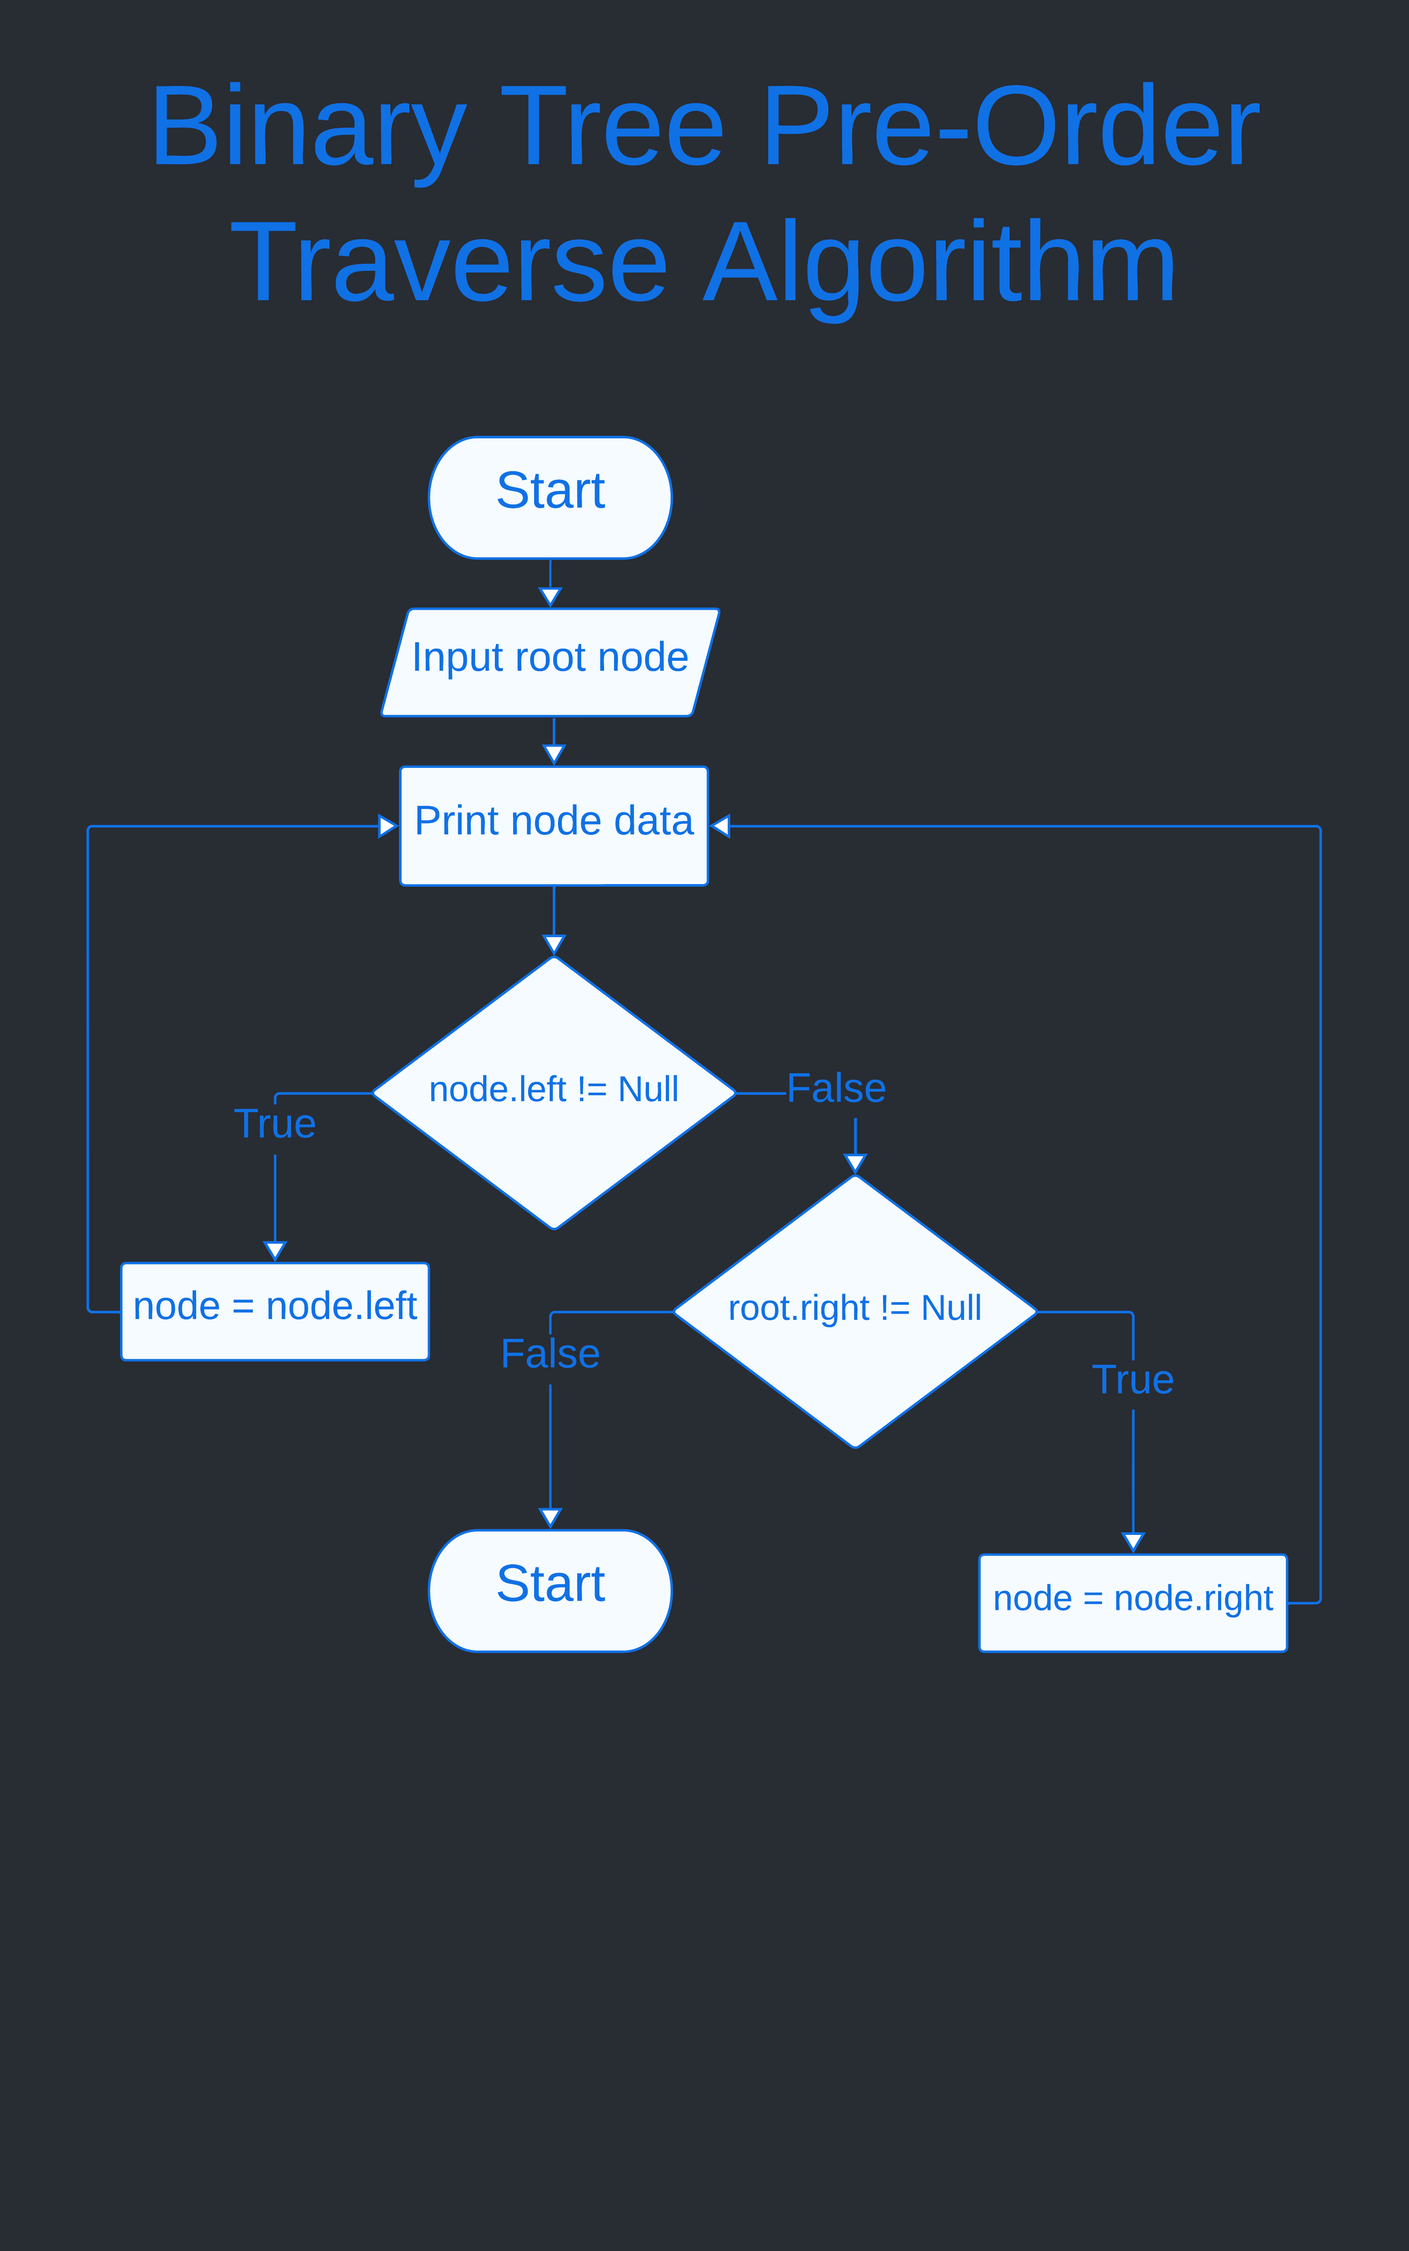
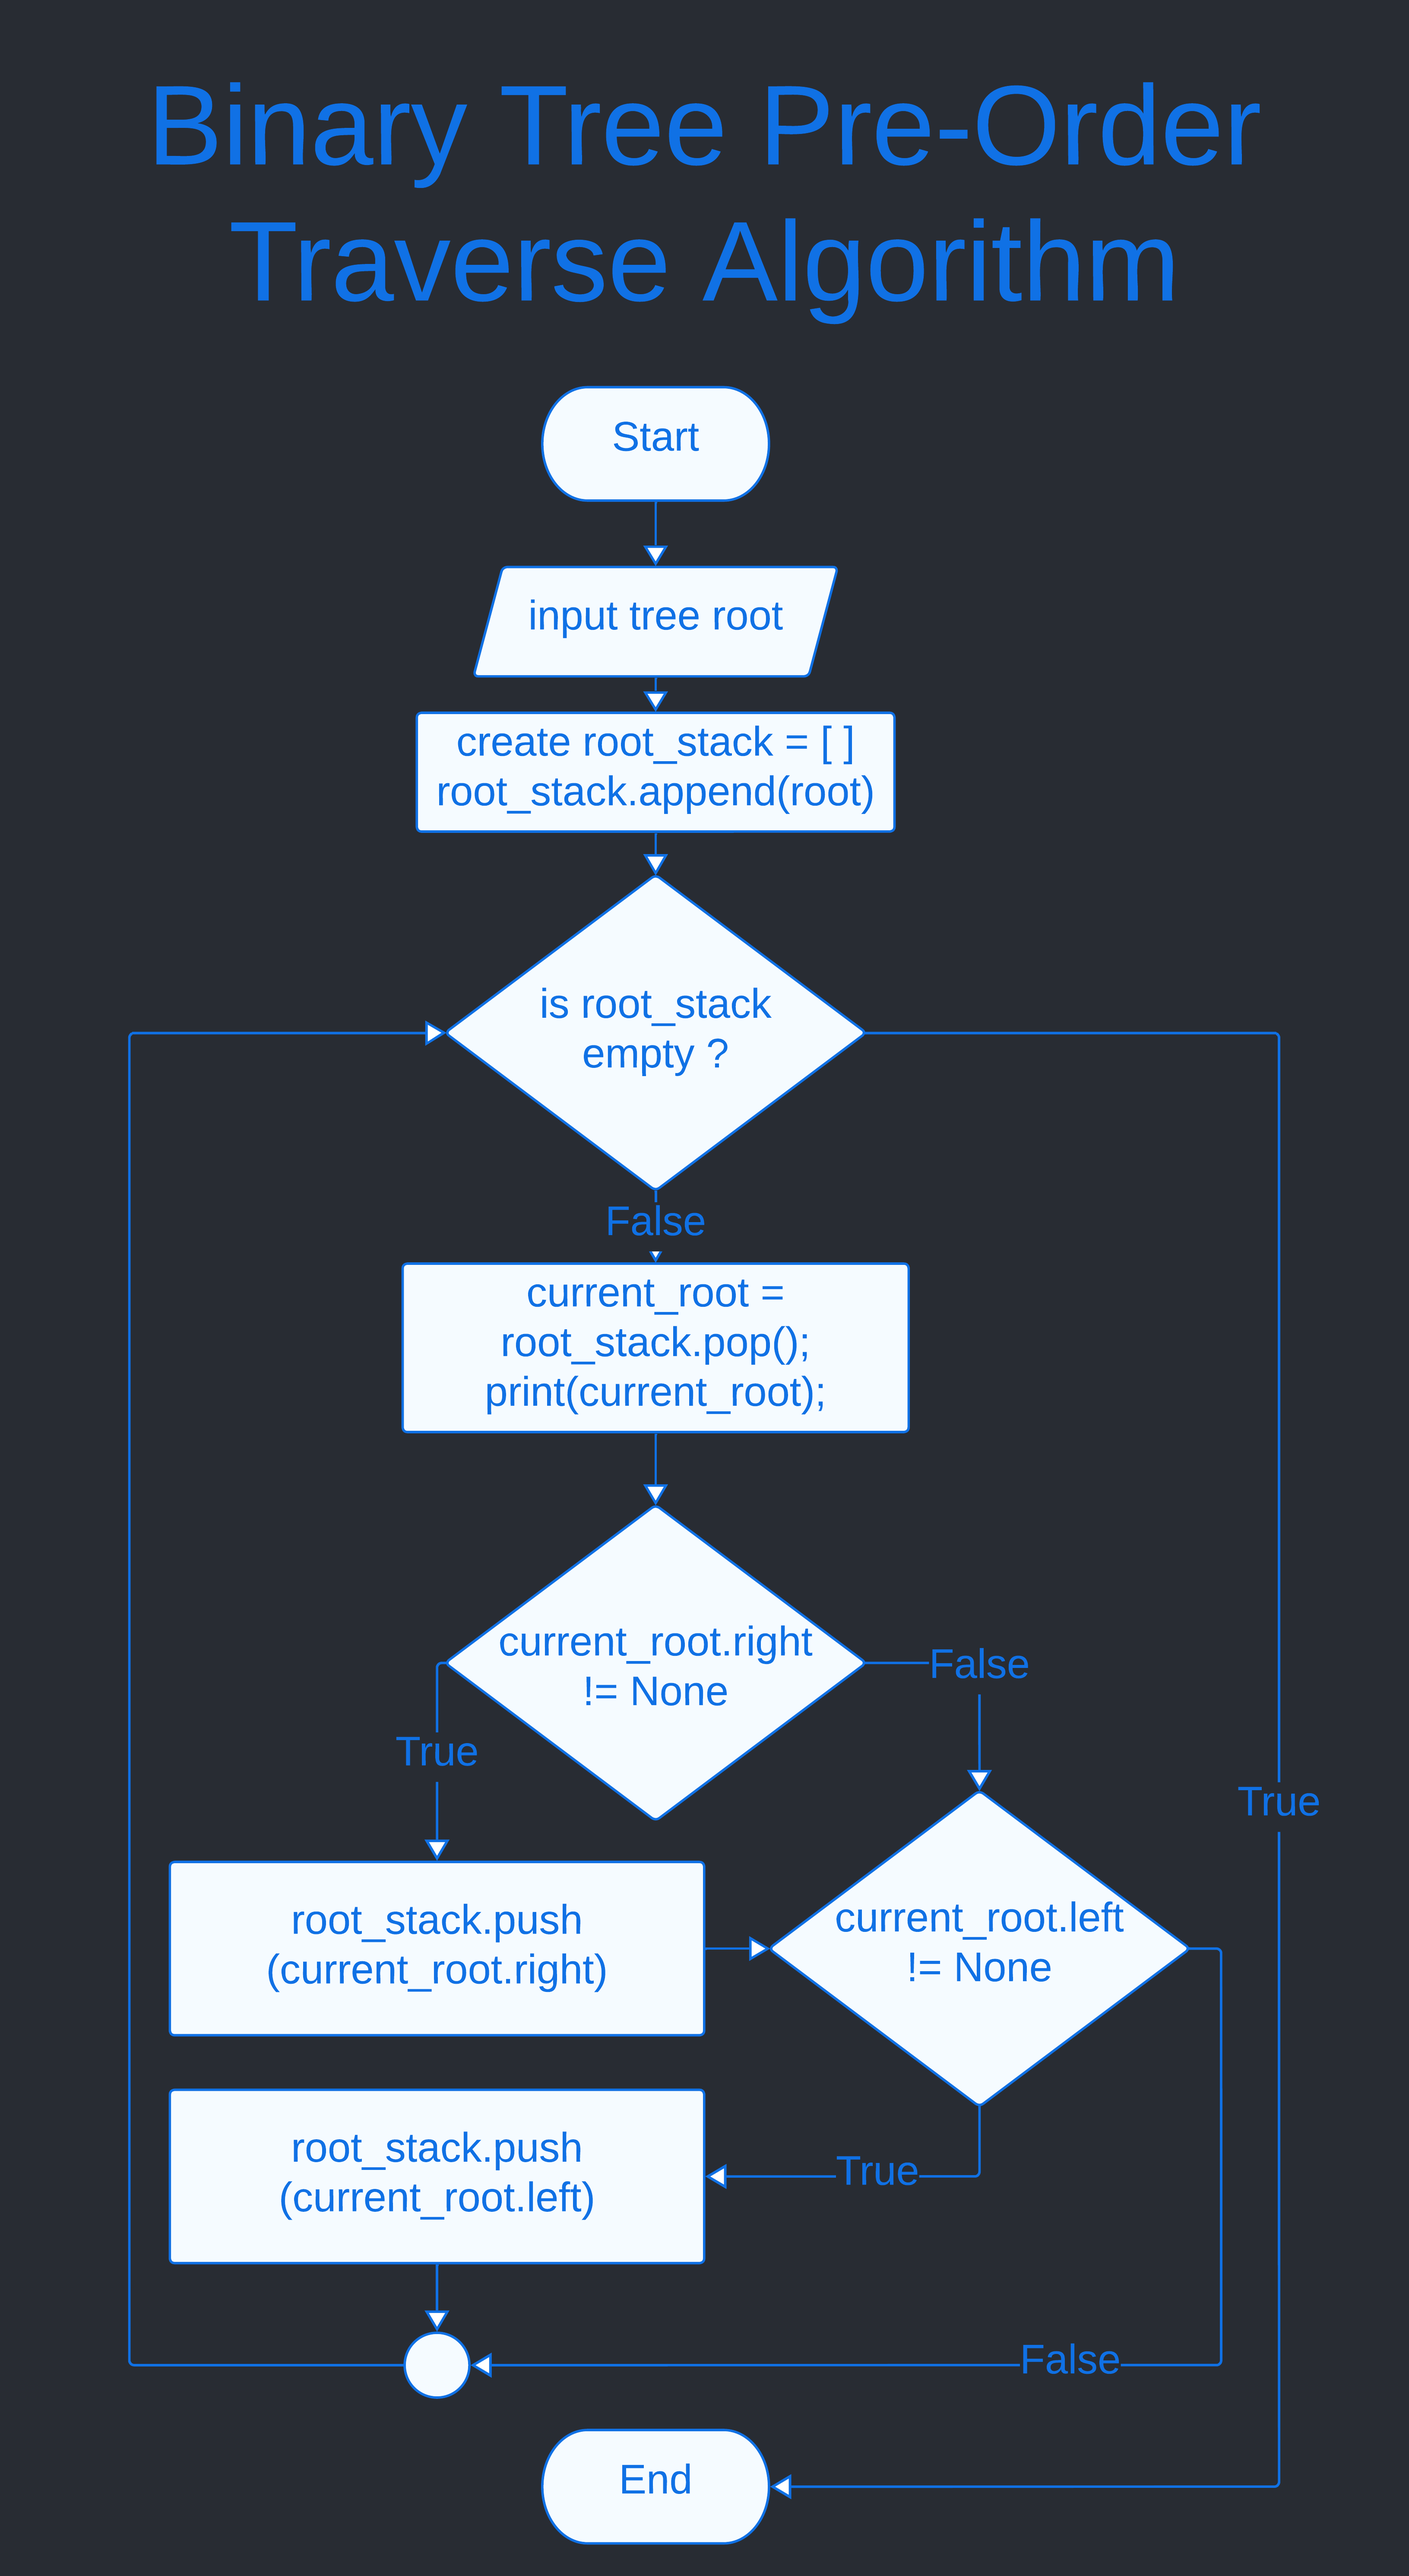
reimplement the pre-order traverse binary tree algorithm and remake the flowchart for this algorithm.

diff --git a/part_3/chapter_9/chapter_9.md b/part_3/chapter_9/chapter_9.md
@@ -70,12 +70,27 @@ There are three algorithm two traverse binary tree. Here :
 ## pre-order   
 In this algorithm first visit root node. Than traverse left child and last traverse right child.
 
-**Pre-Order Algorithm :**
+**Pre-Order Traverse Binary Tree Algorithm :**
 
-input : tree, root
+input : tree root
 1. Visit root node.
 1. Traverse left sub tree.
 1. Traverese right sub tree.
+
+**Pre_Order Traverse Binary Tree Algorithm in Details :**
+
+input : tree root
+
+1. start
+1. create root_stack = []
+1. root_stack.append(root) 
+1. if root_stack is empty then go step 10 otherwise go next step
+1. current_root = root_stack.pop()
+1. print current_root data
+1. if current_root.right exist then, root_stack.append(current_root.right)
+1. if current_root.left exist then, root_stack.append(current_root.left)
+1. go back step 4
+1. end.
 
 **Flow chart Pre-Order binary tree traverse algorithm :**
 
